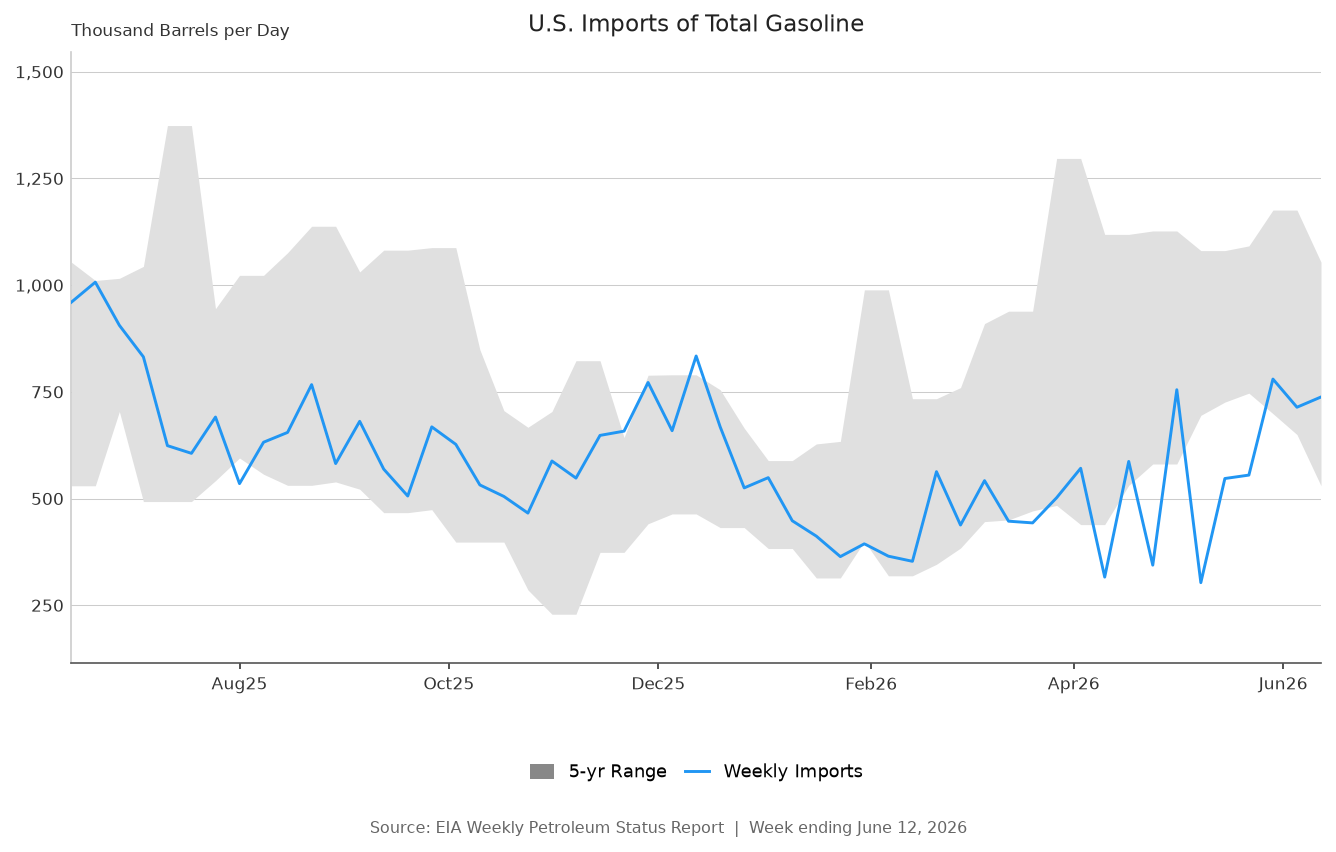
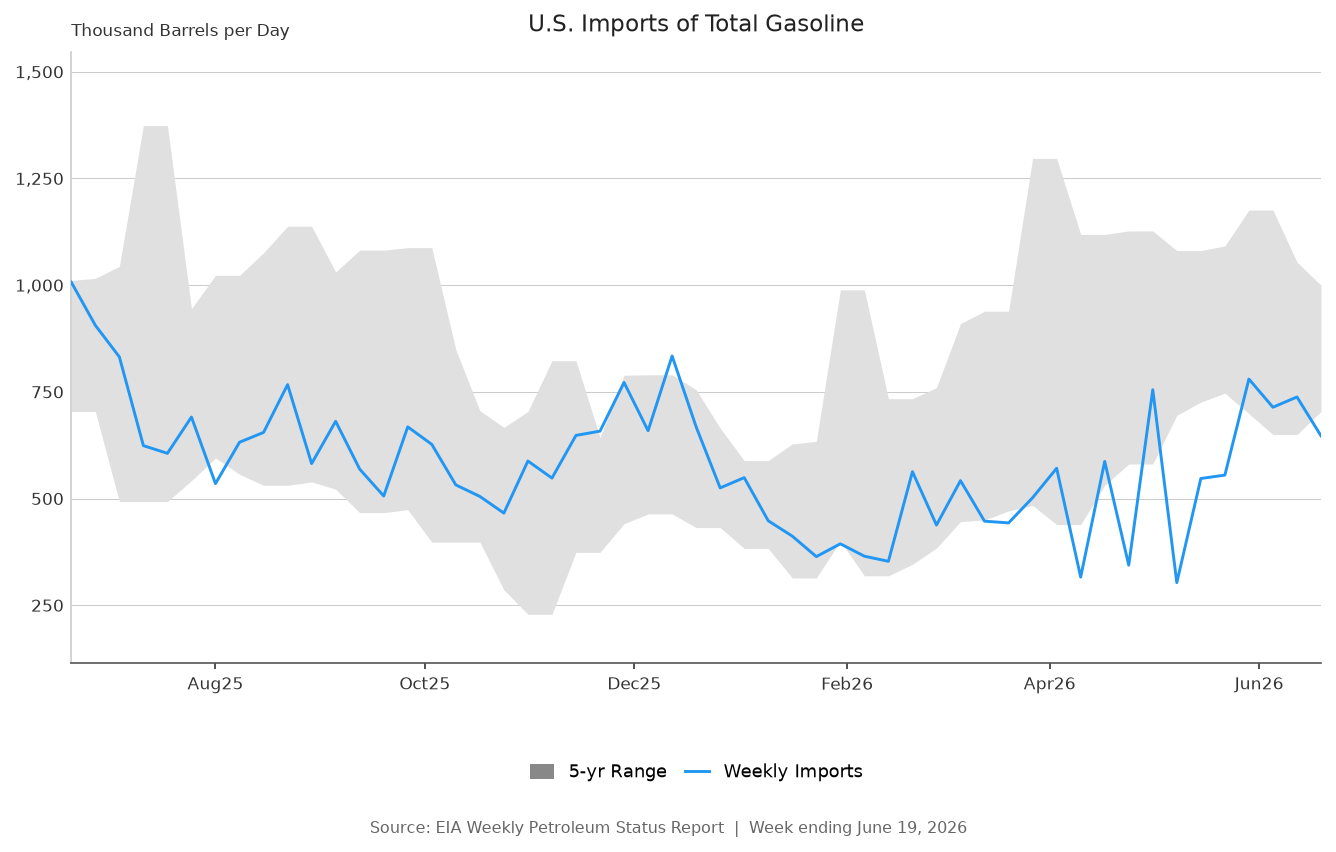
Update Gasoline Imports Seasonal Chart - 2026-06-24 🤖

diff --git a/reports/gasoline-imports/index.html b/reports/gasoline-imports/index.html
@@ -3,7 +3,7 @@
 <head>
   <meta charset="UTF-8" />
   <meta name="viewport" content="width=device-width, initial-scale=1.0" />
-  <title>U.S. Imports of Total Gasoline — 2026-06-12</title>
+  <title>U.S. Imports of Total Gasoline — 2026-06-19</title>
   <style>
     *{box-sizing:border-box;margin:0;padding:0}
     body{background:#f5f5f5;font-family:Arial,sans-serif;display:flex;
@@ -21,10 +21,10 @@
 <body>
   <header>
     <h1>&#x26FD; U.S. Imports of Total Gasoline</h1>
-    <p>Last 365 days with 5-year seasonal range &mdash; week ending 2026-06-12</p>
+    <p>Last 365 days with 5-year seasonal range &mdash; week ending 2026-06-19</p>
   </header>
   <div class="chart-wrapper">
-    <img src="Gasoline_Imports_Weekly_2026_06_24.png?v=1782296228" alt="U.S. Imports of Total Gasoline 2026-06-12" />
+    <img src="Gasoline_Imports_Weekly_2026_06_24.png?v=1782327342" alt="U.S. Imports of Total Gasoline 2026-06-19" />
   </div>
   <footer>
     Source: <a href="https://www.eia.gov/petroleum/supply/weekly/" target="_blank">EIA Weekly Petroleum Status Report</a>
